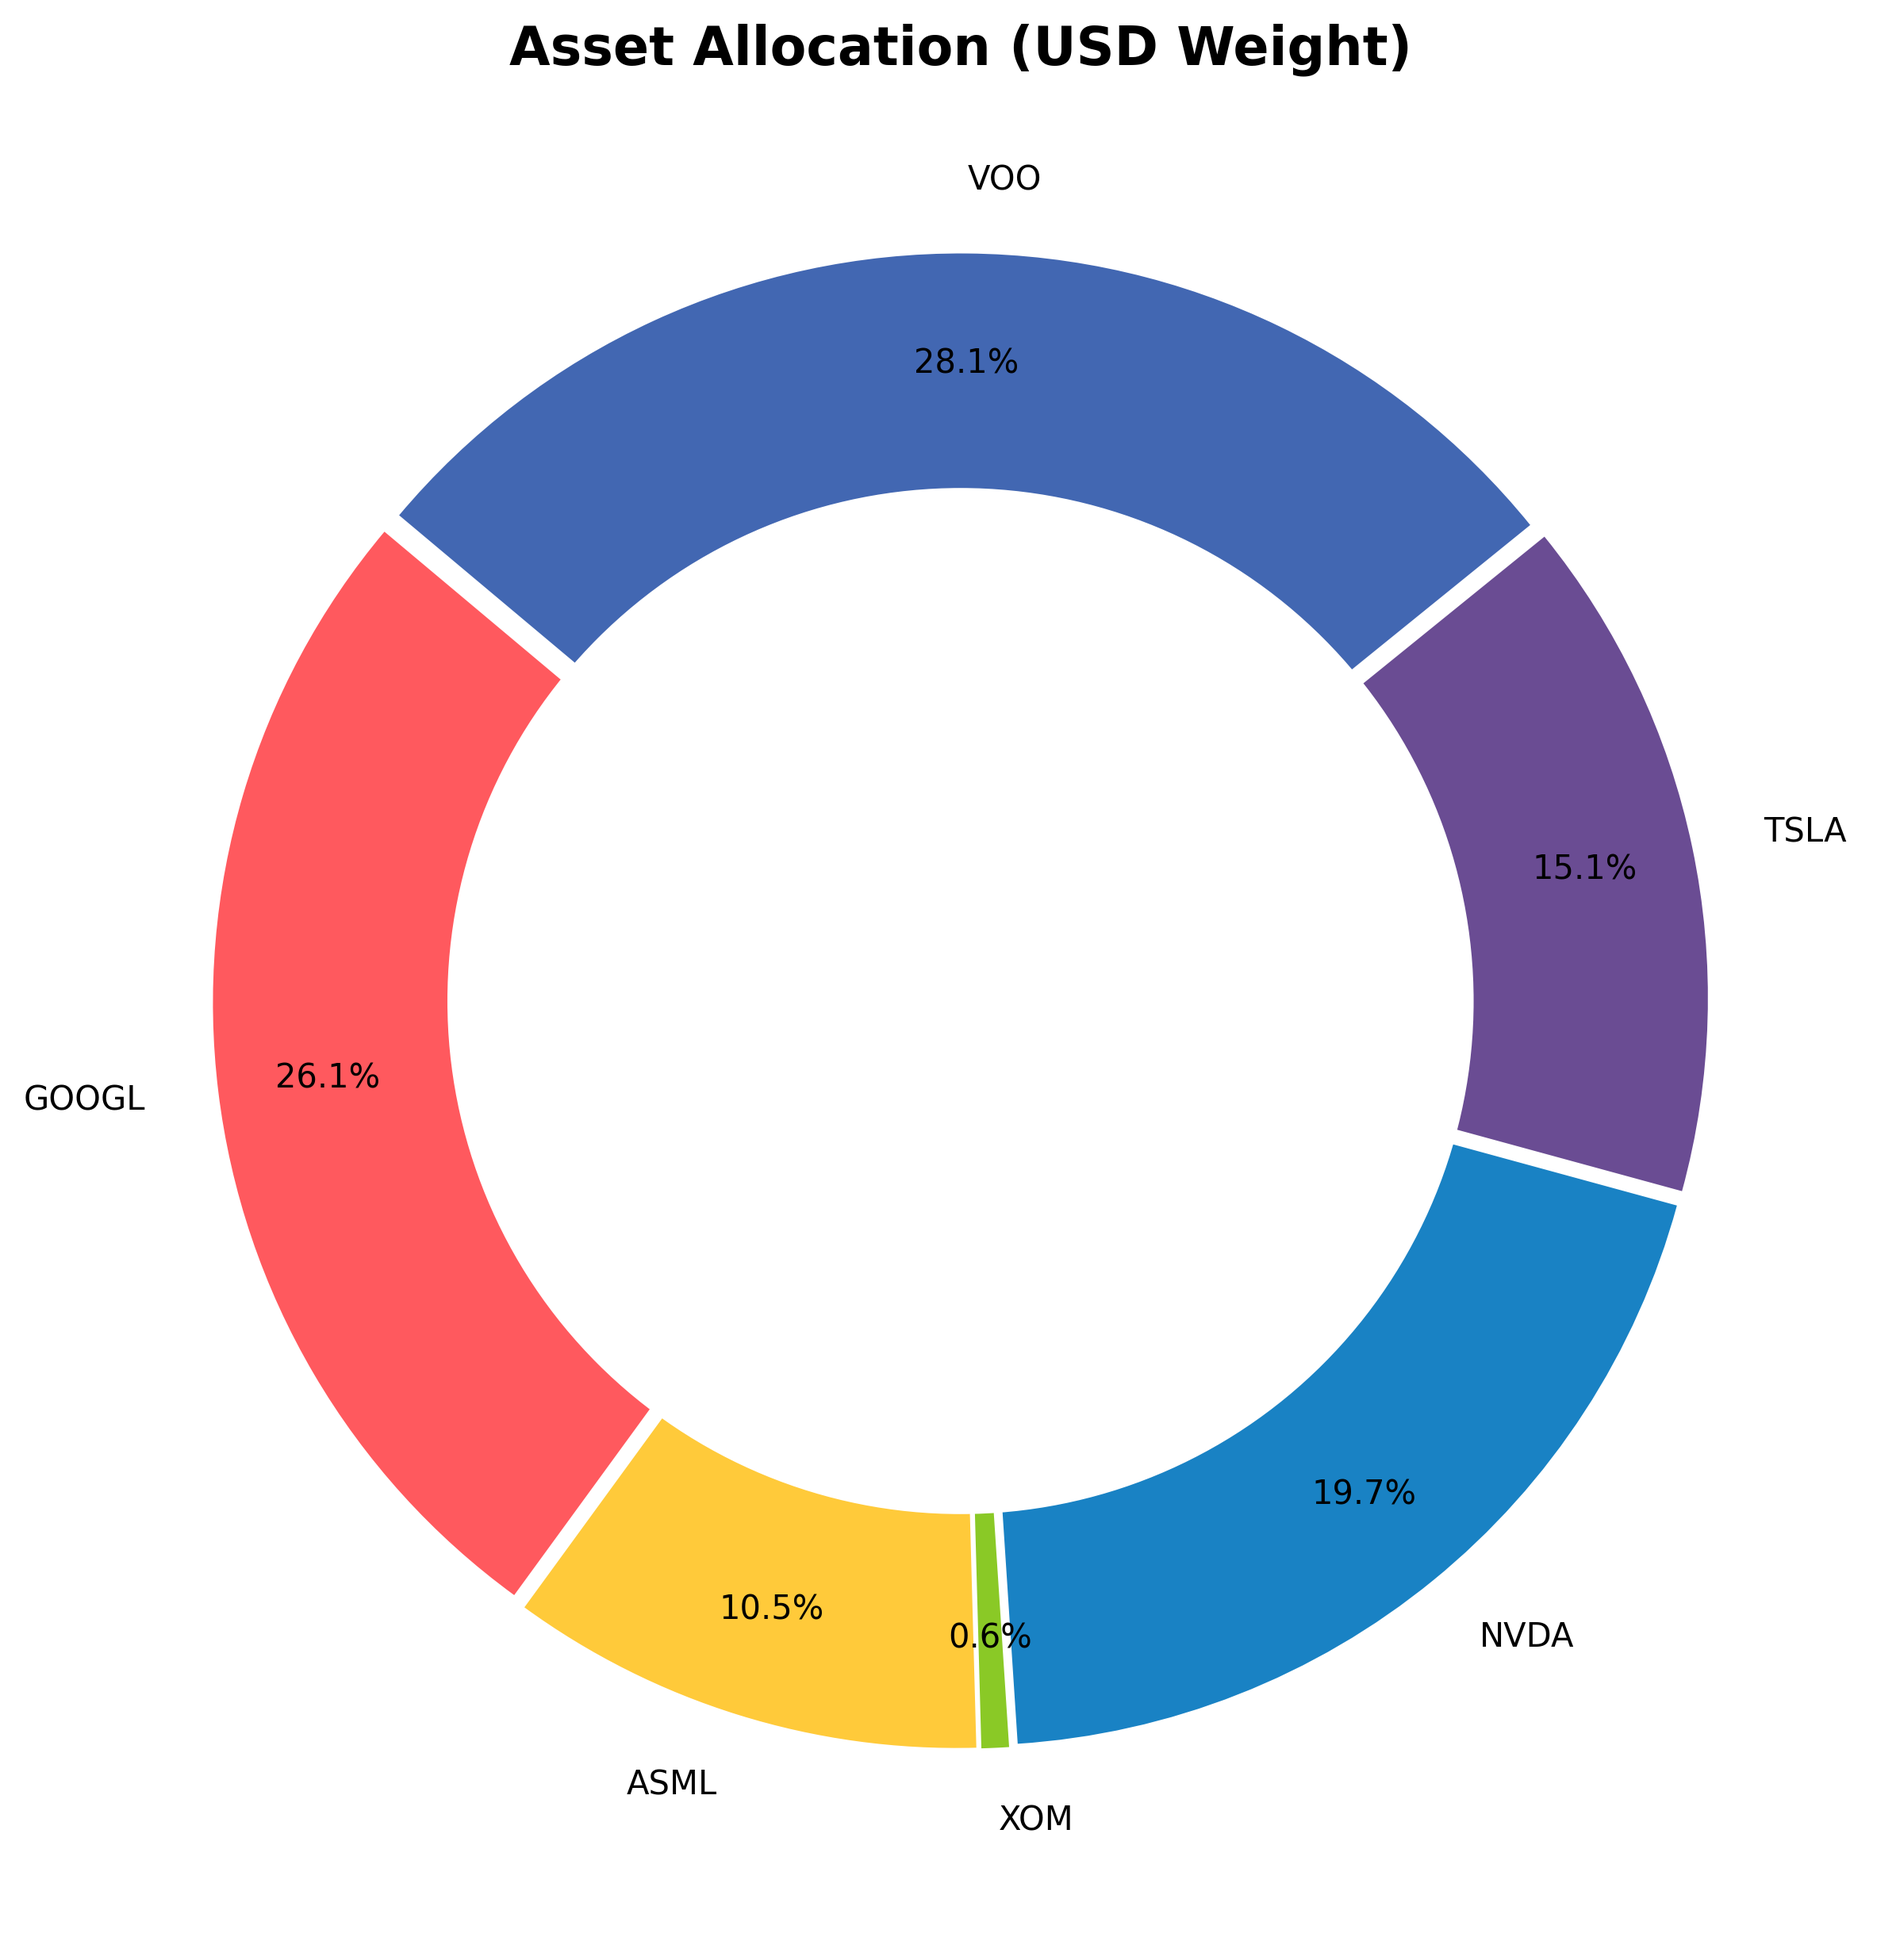
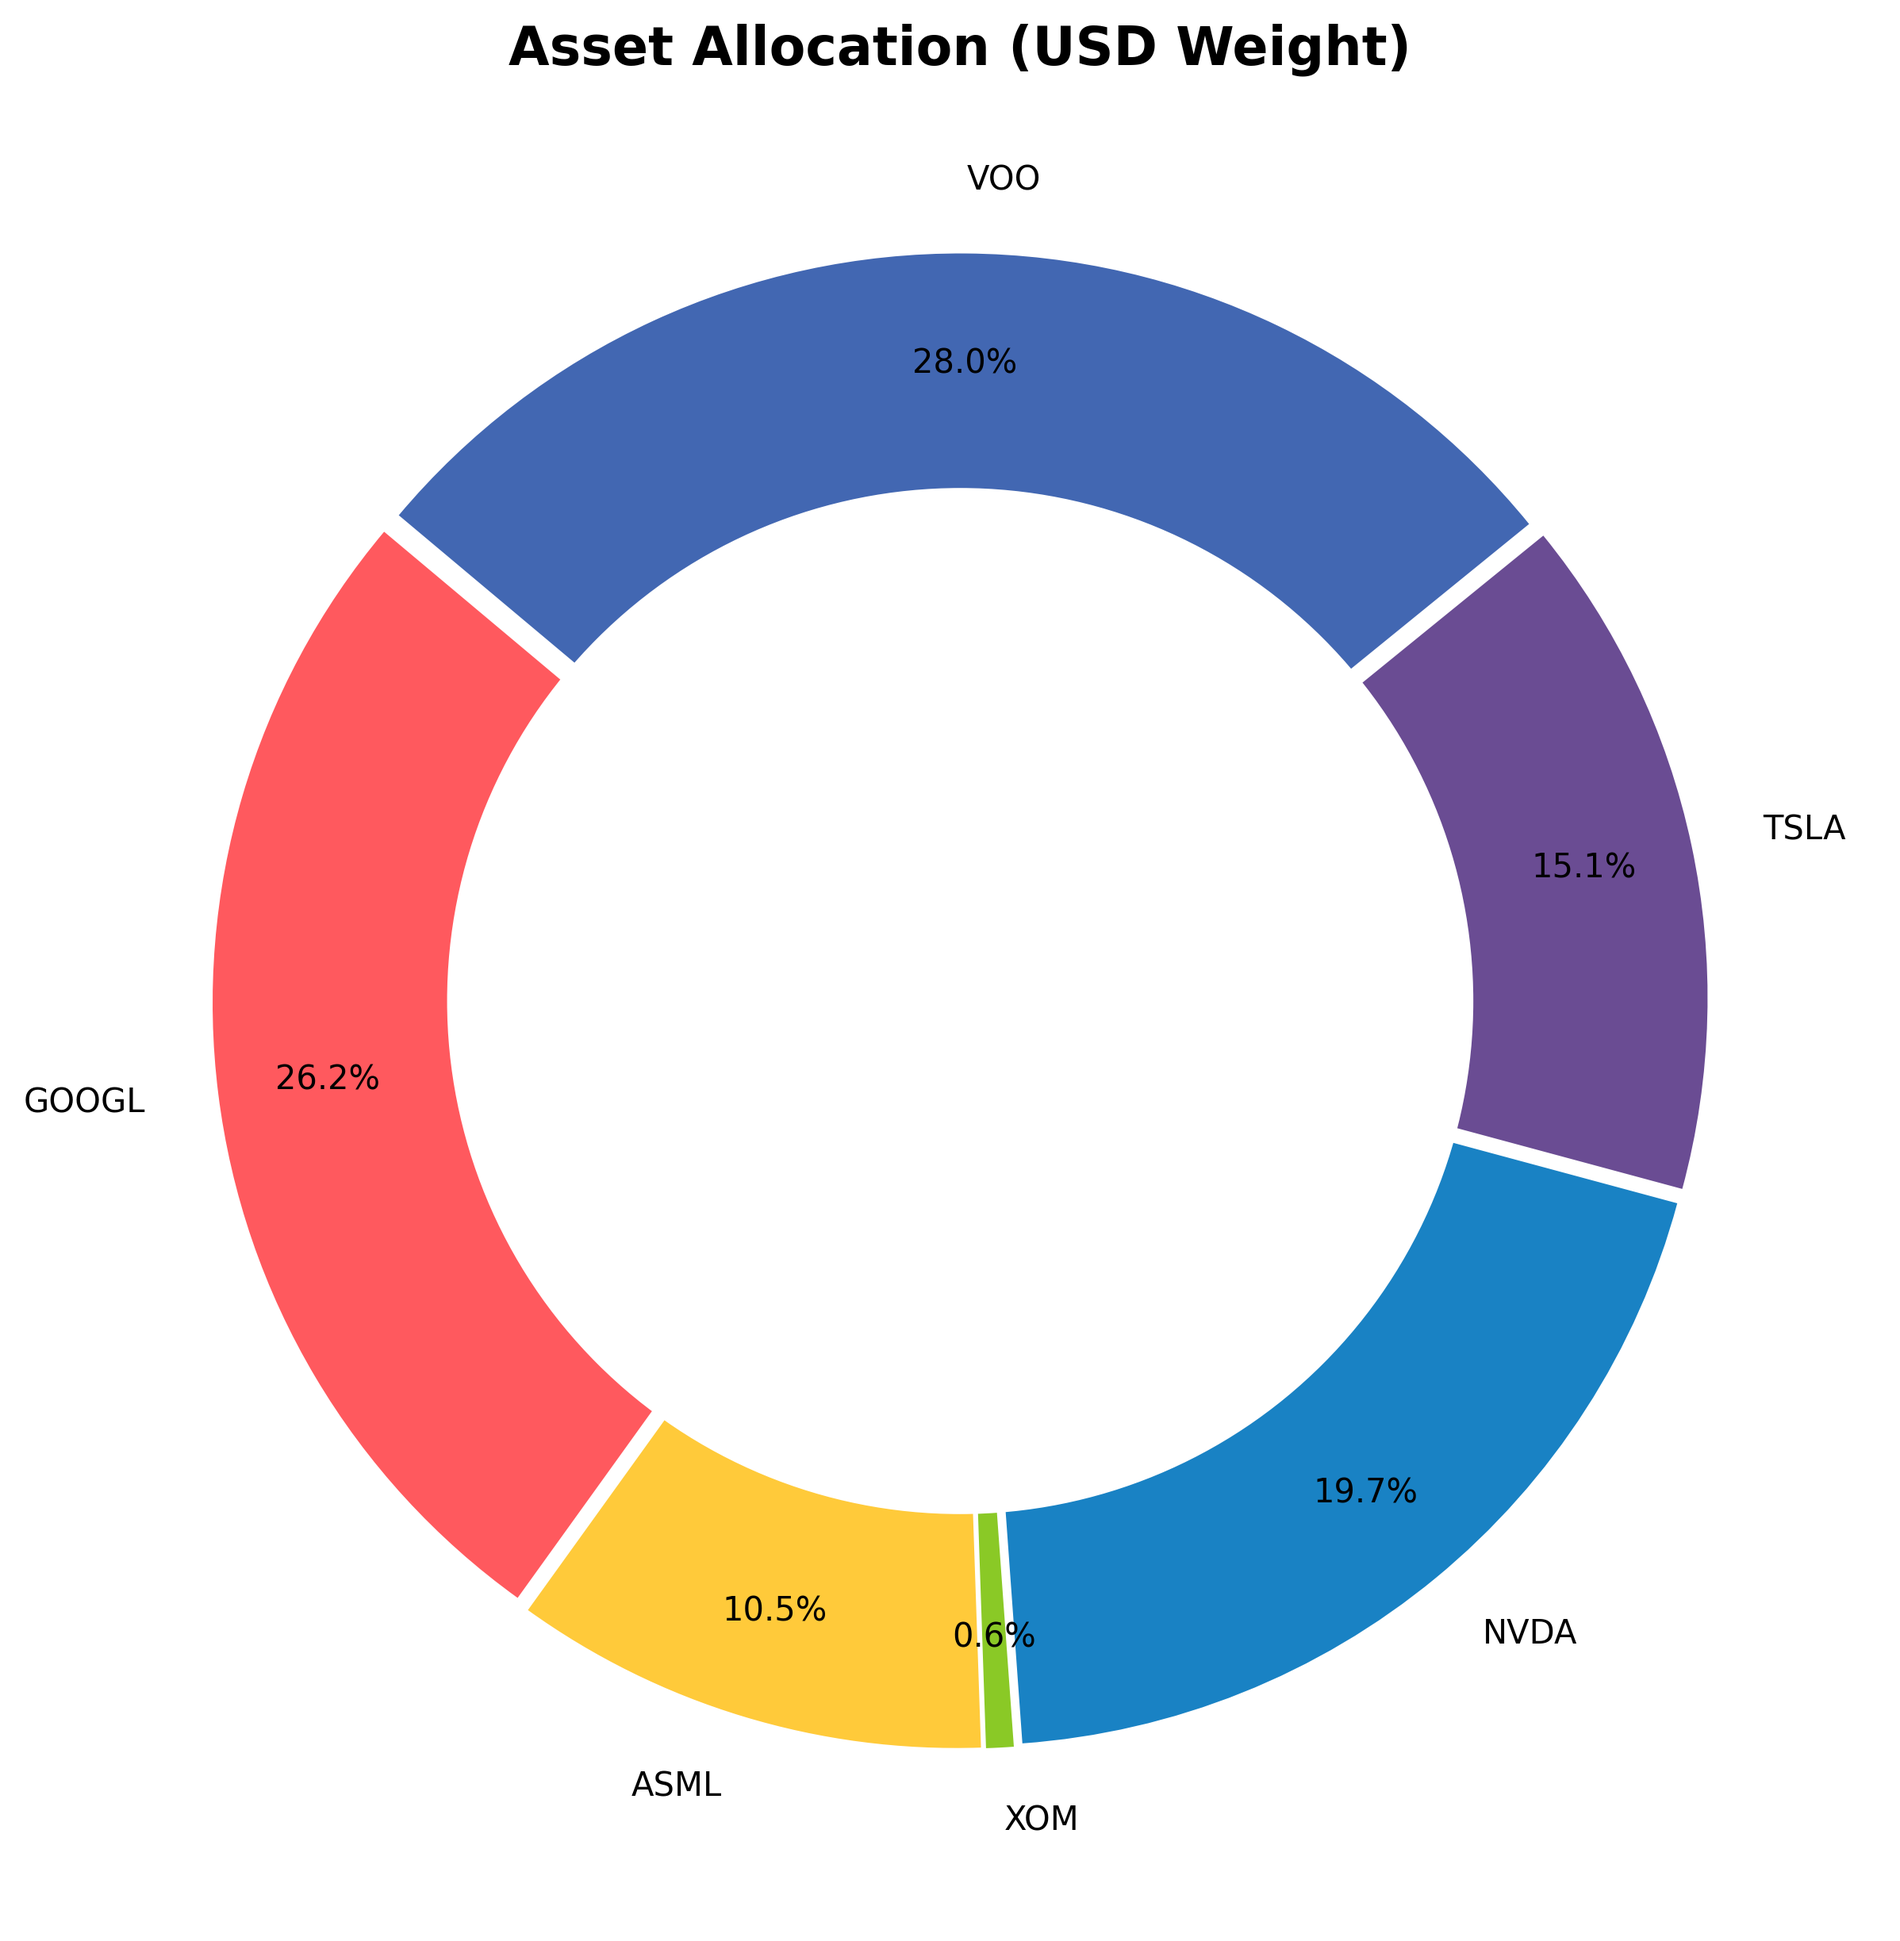
System Run: Analytics & Archive Update [skip ci]

diff --git a/README.md b/README.md
@@ -1,23 +1,23 @@
 # 📊 Portfolio Dashboard | מעקב תיק השקעות
-**Last Update:** 17/03/2026 17:03 | **USD/ILS:** ₪3.094
+**Last Update:** 17/03/2026 19:09 | **USD/ILS:** ₪3.098
 
 ## 💰 Portfolio Summary | סיכום התיק
 | Metric | Value | נתון |
 | :--- | :--- | :--- |
-| **Current Value** | `₪163,813` | **שווי נוכחי** |
-| **Total Invested** | `₪129,959` | **סך השקעה** |
-| **Total Profit/Loss** | `+26.05%` (₪33,854) | **רווח/הפסד כולל** |
-| **Daily Change** | `+0.29%` | **שינוי יומי** |
+| **Current Value** | `₪163,907` | **שווי נוכחי** |
+| **Total Invested** | `₪130,102` | **סך השקעה** |
+| **Total Profit/Loss** | `+25.98%` (₪33,806) | **רווח/הפסד כולל** |
+| **Daily Change** | `+0.18%` | **שינוי יומי** |
 
 ## 📜 Holdings | פירוט החזקות
 | Ticker | Shares | Avg. Cost | Current Price | P&L % | P&L ILS |
 | :--- | :--- | :--- | :--- | :--- | :--- |
-| GOOGL | 45 | $181.15 | $306.90 | 🟢 +69.42% | ₪17,510 |
-| ASML | 4 | $934.51 | $1,384.69 | 🟢 +48.17% | ₪5,572 |
-| XOM | 2 | $126.08 | $159.59 | 🟢 +26.58% | ₪207 |
-| NVDA | 57 | $148.62 | $183.11 | 🟢 +23.21% | ₪6,083 |
-| TSLA | 20 | $436.45 | $399.18 | 🔴 -8.54% | ₪-2,306 |
-| VOO | 24 | $527.38 | $618.79 | 🟢 +17.33% | ₪6,788 |
+| GOOGL | 45 | $181.15 | $307.92 | 🟢 +69.98% | ₪17,671 |
+| ASML | 4 | $934.51 | $1,384.69 | 🟢 +48.17% | ₪5,578 |
+| XOM | 2 | $126.08 | $160.03 | 🟢 +26.93% | ₪210 |
+| NVDA | 57 | $148.62 | $182.47 | 🟢 +22.78% | ₪5,977 |
+| TSLA | 20 | $436.45 | $398.41 | 🔴 -8.72% | ₪-2,357 |
+| VOO | 24 | $527.38 | $617.85 | 🟢 +17.15% | ₪6,726 |
 
 ## 📈 Charts | גרפים
 ![Performance](./data_hub/portfolio_performance.png)
